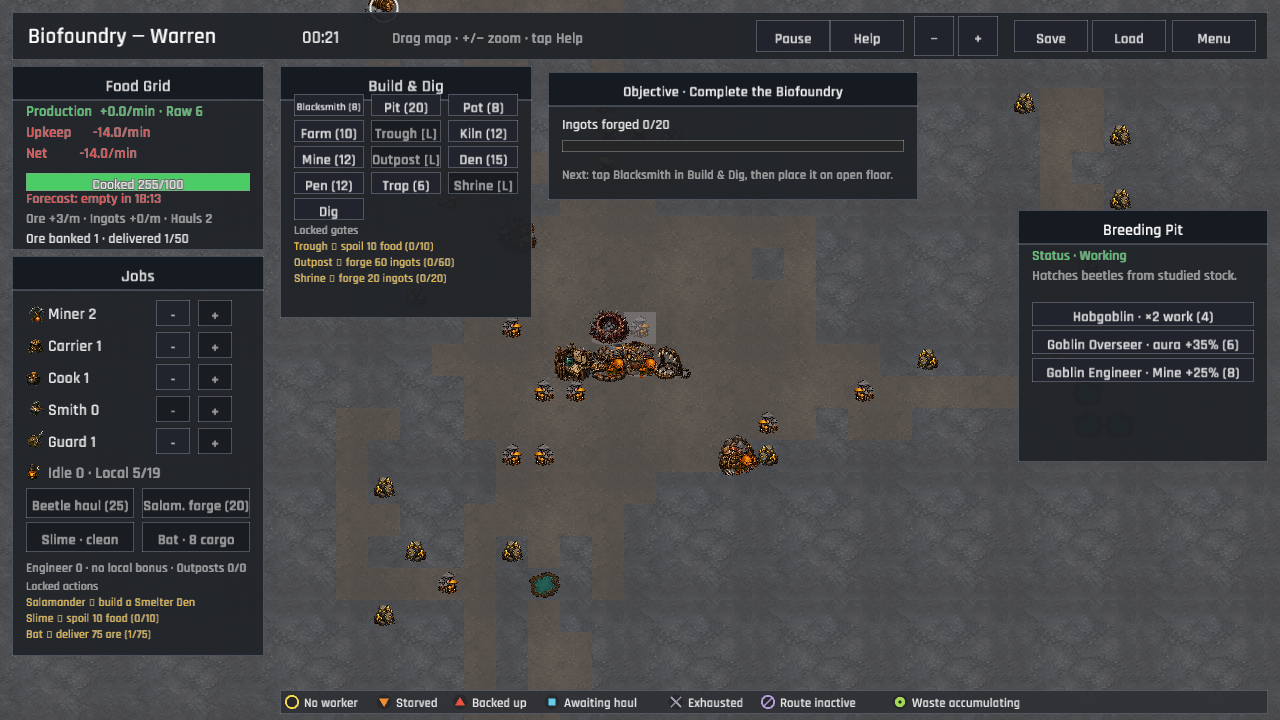
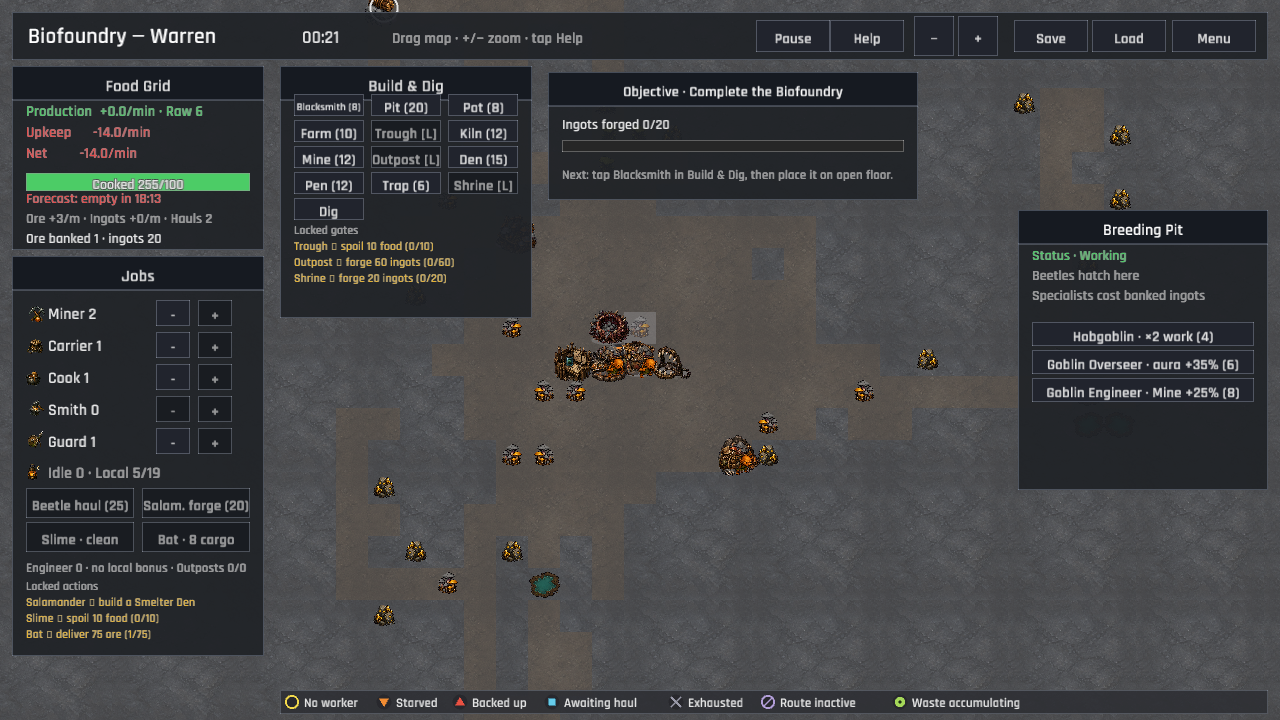
The brood labels the ingot price of growth (breeding clarity)
The Breeding Pit now states that specialist choices spend banked ingots and keeps the beetle hatch note separate from the specialist controls. Its inspection card has more vertical room for locked progress hints, and both unlocked and locked captures were refreshed at the target resolution.

Changed region(s): [[0.8125, 0.3667, 0.9688, 0.5806], [0.7812, 0.6417, 1.0, 0.7028], [0.0938, 0.3056, 0.1562, 0.3361]]

diff --git a/src/ui/hud/inspect.rs b/src/ui/hud/inspect.rs
@@ -43,7 +43,7 @@ pub(super) fn draw_inspect_panel(
     // buttons, and the breeding pit its breed buttons — both taller.
     let height = match building.kind.as_str() {
         "blacksmith" => 194.0 + data.equipment.len() as f32 * 26.0,
-        "breeding_pit" => 252.0,
+        "breeding_pit" => 280.0,
         "worm_shrine" => 240.0,
         "outpost" => 270.0,
         _ => 152.0,
@@ -305,11 +305,8 @@ pub(super) fn draw_inspect_panel(
             );
         }
         "breeding_pit" => {
-            line(
-                "Hatches beetles from studied stock.",
-                dark::TEXT_DIM,
-                &mut y,
-            );
+            line("Beetles hatch here", dark::TEXT_DIM, &mut y);
+            line("Specialists cost banked ingots", dark::TEXT_DIM, &mut y);
             // Evolution line: breed heavyweight workers once forged ingots
             // unlock them. Buttons stay visible, disabled until then.
             let bw = panel.w - 28.0;
